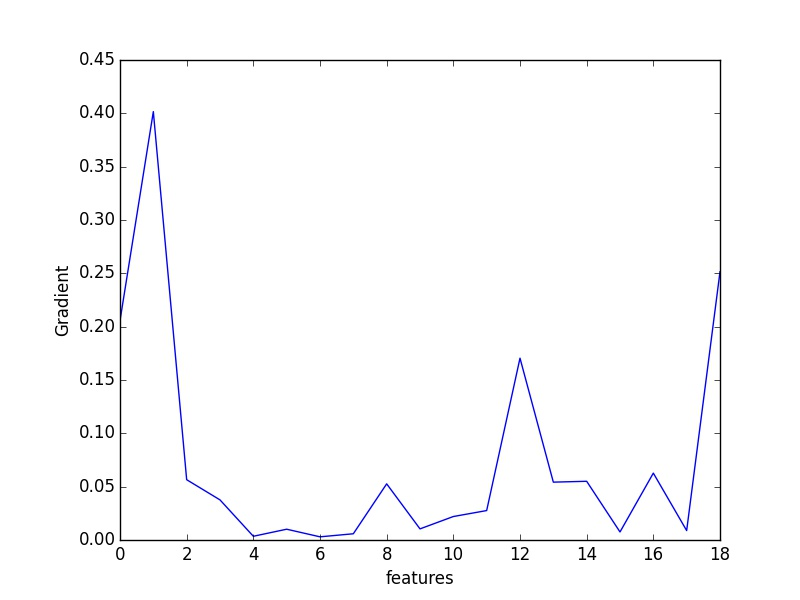
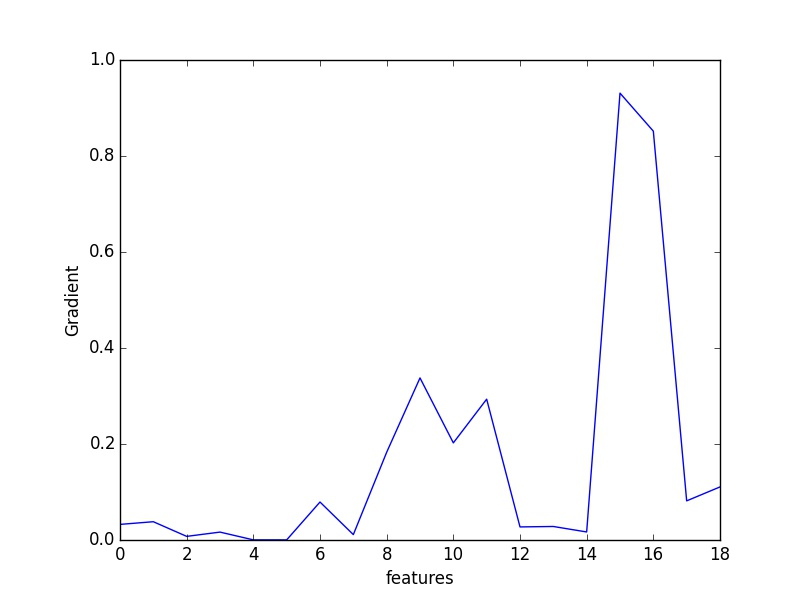
Issue #12

diff --git a/SOURCE/Planning.py b/SOURCE/Planning.py
@@ -1,6 +1,6 @@
 #! /Users/rkrsn/anaconda/bin/python
 from __future__ import print_function
-
+from __future__ import division
 from os import environ, getcwd
 from pdb import set_trace
 from random import uniform, randint
@@ -91,8 +91,8 @@ class treatments():
   def __init__(self, train = None, test = None,
                verbose = True, smoteit = False):
     self.train, self.test = train, test
-    self.train_DF = createTbl(train, _smote = smoteit, isBin = True)
-    self.test_DF = createTbl(test, isBin = True)
+    self.train_DF = createTbl(train, _smote = smoteit, isBin = False) 
+    self.test_DF = createTbl(test, isBin = False)
     self.verbose, self.smoteit = verbose, smoteit
     self.mod, self.keys = [], self.getKey()
 
@@ -141,35 +141,35 @@ class treatments():
       else:
         return False, []
 
-  def finder(self, node, oldNode = [], branch = [], Found = False):
-    """
-    A recursive searcher that looks for the nearest neighbor whose better than
-    a given node.
-    """
-    out = branch
-    if not Found:
-      if node.lvl > -1:
-        _kids = []
-        oldNode.append(node)
-        _up = node.up
-#         print('Current- ', node.branch, 'Level - ', node.lvl)
-        kids = [k for k in _up.kids]
-        _kids.extend([self.leaves(_k) for _k in kids])
-        _kids = self.flatten(_kids)
-#         print('Kids', _kids)
-        Found, branch = self.isBetter(node, _kids)
-        out = self.finder(_up, oldNode = oldNode, branch = branch, Found = Found)
-
-      else:
-        _kids = []
-        kids = [k for k in node.kids if not k in oldNode]
-        for k in kids:
-          for kk in k.kids: out = self.finder(kk, oldNode = oldNode,
-                                        branch = branch, Found = Found)
-
-#     print(out)
-    return out
-
+#  def finder(self, node, oldNode = [], branch = [], Found = False):
+#    """
+#    A recursive searcher that looks for the nearest neighbor whose better than
+#    a given node.
+#    """
+#    out = branch
+#    if not Found:
+#      if node.lvl > -1:
+#        _kids = []
+#        oldNode.append(node)
+#        _up = node.up
+##         print('Current- ', node.branch, 'Level - ', node.lvl)
+#        kids = [k for k in _up.kids]
+#        _kids.extend([self.leaves(_k) for _k in kids])
+#        _kids = self.flatten(_kids)
+##         print('Kids', _kids)
+#        Found, branch = self.isBetter(node, _kids)
+#        out = self.finder(_up, oldNode = oldNode, branch = branch, Found = Found)
+#
+#      else:
+#        _kids = []
+#        kids = [k for k in node.kids if not k in oldNode]
+#        for k in kids:
+#          for kk in k.kids: out = self.finder(kk, oldNode = oldNode,
+#                                        branch = branch, Found = Found)
+#
+##     print(out)
+#    return out
+#
   def attributes(self, nodes):
     """
     A method to handle unique branch variables that charaterizes
@@ -189,6 +189,9 @@ class treatments():
     finder2 is a more elegant version of finder that performs a search on
     the entire tree to find leaves which are better than a certain 'node'
     """
+
+    def range(a_tuple):
+      return ((a_tuple[0])+(a_tuple[1]))/2
     vals = []
     current = store(node)
     while node.lvl > -1:
@@ -199,14 +202,26 @@ class treatments():
     for leaf in leaves:
       l = store(leaf)
       for b in leaf.branch:
-        if b[0] in [bb[0] for bb in current.node.branch]: l.DoC += 1
+        dist = []
+        if b[0] in [bb[0] for bb in current.node.branch]: 
+          l.DoC += 1
+          dist.extend([(range(b[1])-range(bb[1]))**2 for bb in current.node.branch if b[0]==bb[0]])
+      l.dist = np.sqrt(np.sum(dist))
       vals.append(l)
 
     vals = sorted(vals, key = lambda F: F.DoC, reverse = False)
-    set_trace()
-    bests = [v for v in vals if v.score < alpha * current.score]
-    if not len(bests): bests = [v for v in vals]
-    return bests, self.attributes(bests)
+    best = [v for v in vals if v.score < alpha * current.score]
+    if not best: bests = vals
+
+    # Get a list of DoCs (DoC -> (D)epth (o)f (C)orrespondence, btw..)
+    # set_trace()
+    attr = {}
+    bests = {}
+    for dd in list(set([v.DoC for v in best])): 
+      bests.update({dd:sorted([v for v in best if v.DoC == dd], key = lambda F: F.dist)})
+      attr.update({dd:self.attributes(sorted([v for v in best if v.DoC == dd], key = lambda F: F.dist))})   
+      # set_trace()
+    return bests, attr[1][0], attr[1][-1], attr[2][0], attr[2][-1]
 
 
   def getKey(self):
@@ -243,22 +258,24 @@ class treatments():
         node.contrastSet = []
         self.mod.append(node.newRow)
       else:
-        bests, node.contrastSet = self.finder2(node.loc)
+        bests, far, farthest, near, nearest = self.finder2(node.loc)
 #         set_trace()
+        node.contrastSet = [far, farthest, near, nearest]
         patch = node.patches(self.keys, N_Patches = 100)
-        # set_trace()
+        #set_trace()
         found = False
         while not found:
           p = choice(patch)
           tmpTbl = clone(self.test_DF,
                         rows = [k.cells for k in p],
                         discrete = True)
-          mass = CART(createTbl(self.train, _smote = False, isBin = True)
+          mass = CART(createTbl(self.train, _smote = False)
                     , tmpTbl
                     , tunings = None
                     , smoteit = True
                     , duplicate = True)
           found = tC.cells[-2] > np.mean(mass)
+          # set_trace()
         self.mod.append(choice(tmpTbl._rows))
 
 
@@ -276,7 +293,7 @@ class treatments():
 
 def planningTest():
   # Test contrast sets
-  n = 1
+  n = 0
   dir = '../Data'
   one, two = explore(dir)
   # Training data

diff --git a/SOURCE/main.py b/SOURCE/main.py
@@ -24,20 +24,6 @@ from sk import rdivDemo
 from pdb import set_trace
 from deTuner import tuner
 
-def lookup():
-  LUT = {}
-  LUT.update({'ant': (0.16, 0.33, 8, 1, 3, 8, False, True)})
-  LUT.update({'camel': (0.87, 0.49, 1, 0.67, 4, 14, True, True)})
-  LUT.update({'ivy': (0.89, 1, 1, 0.99, 1, 16, False, True)})
-  LUT.update({'jedit': (0.68, 0.12, 8, 0.63, 2, 1, False, True)})
-  LUT.update({'log4j': (0.58, 0.12, 8, 0.63, 2, 1, False, False)})
-  LUT.update({'lucene': (0.62, 0.54, 1, 1, 1, 16, True, False)})
-  LUT.update({'poi': (0.06, 0.38, 5, 0.95, 1, 13, True, True)})
-  LUT.update({'synapse': (0.09, 0.01, 9, 0.59, 5, 5, False, False)})
-  LUT.update({'velocity': (1, 1, 1, 1, 1, 9, True, False)})
-  LUT.update({'xalan': (0.64, 0.36, 5, 0.88, 1, 18, False, False)})
-  LUT.update({'xerces': (0.02, 0.25, 5, 0.64, 3, 20, True, False})
-  return LUT
 def Bugs(tbl):
   cells = [i.cells[-2] for i in tbl._rows]
   return cells
@@ -110,8 +96,6 @@ def main():
                                 test = test[_n],
                                 verbose = False,
                                 smoteit = True).main()
-#
-
             # set_trace()
             # Actual bugs
             actual = Bugs(test_df)
@@ -135,10 +119,10 @@ def main():
 #             print(showoff(dataName[n], before, after))
 #             write('Test: '); [write(l) for l in test[_n]],
             outa.append(_Abcd(before = actual, after = before)[-1])
-          #   print(outa)
-          #   print('Gain =  %0.2f' % float(\
-          #   	(sum(before) - sum(after)) / sum(before)*100),r'%')
-
+            print(outa)
+            print('Gain =  %1.2f' % float(\
+            	   (sum(before) - sum(after)) / sum(before)*100),r'%')
+# 
           #   out1.append(\
           #   	float((sum(before) - sum(after)) / sum(before)*100))
 
